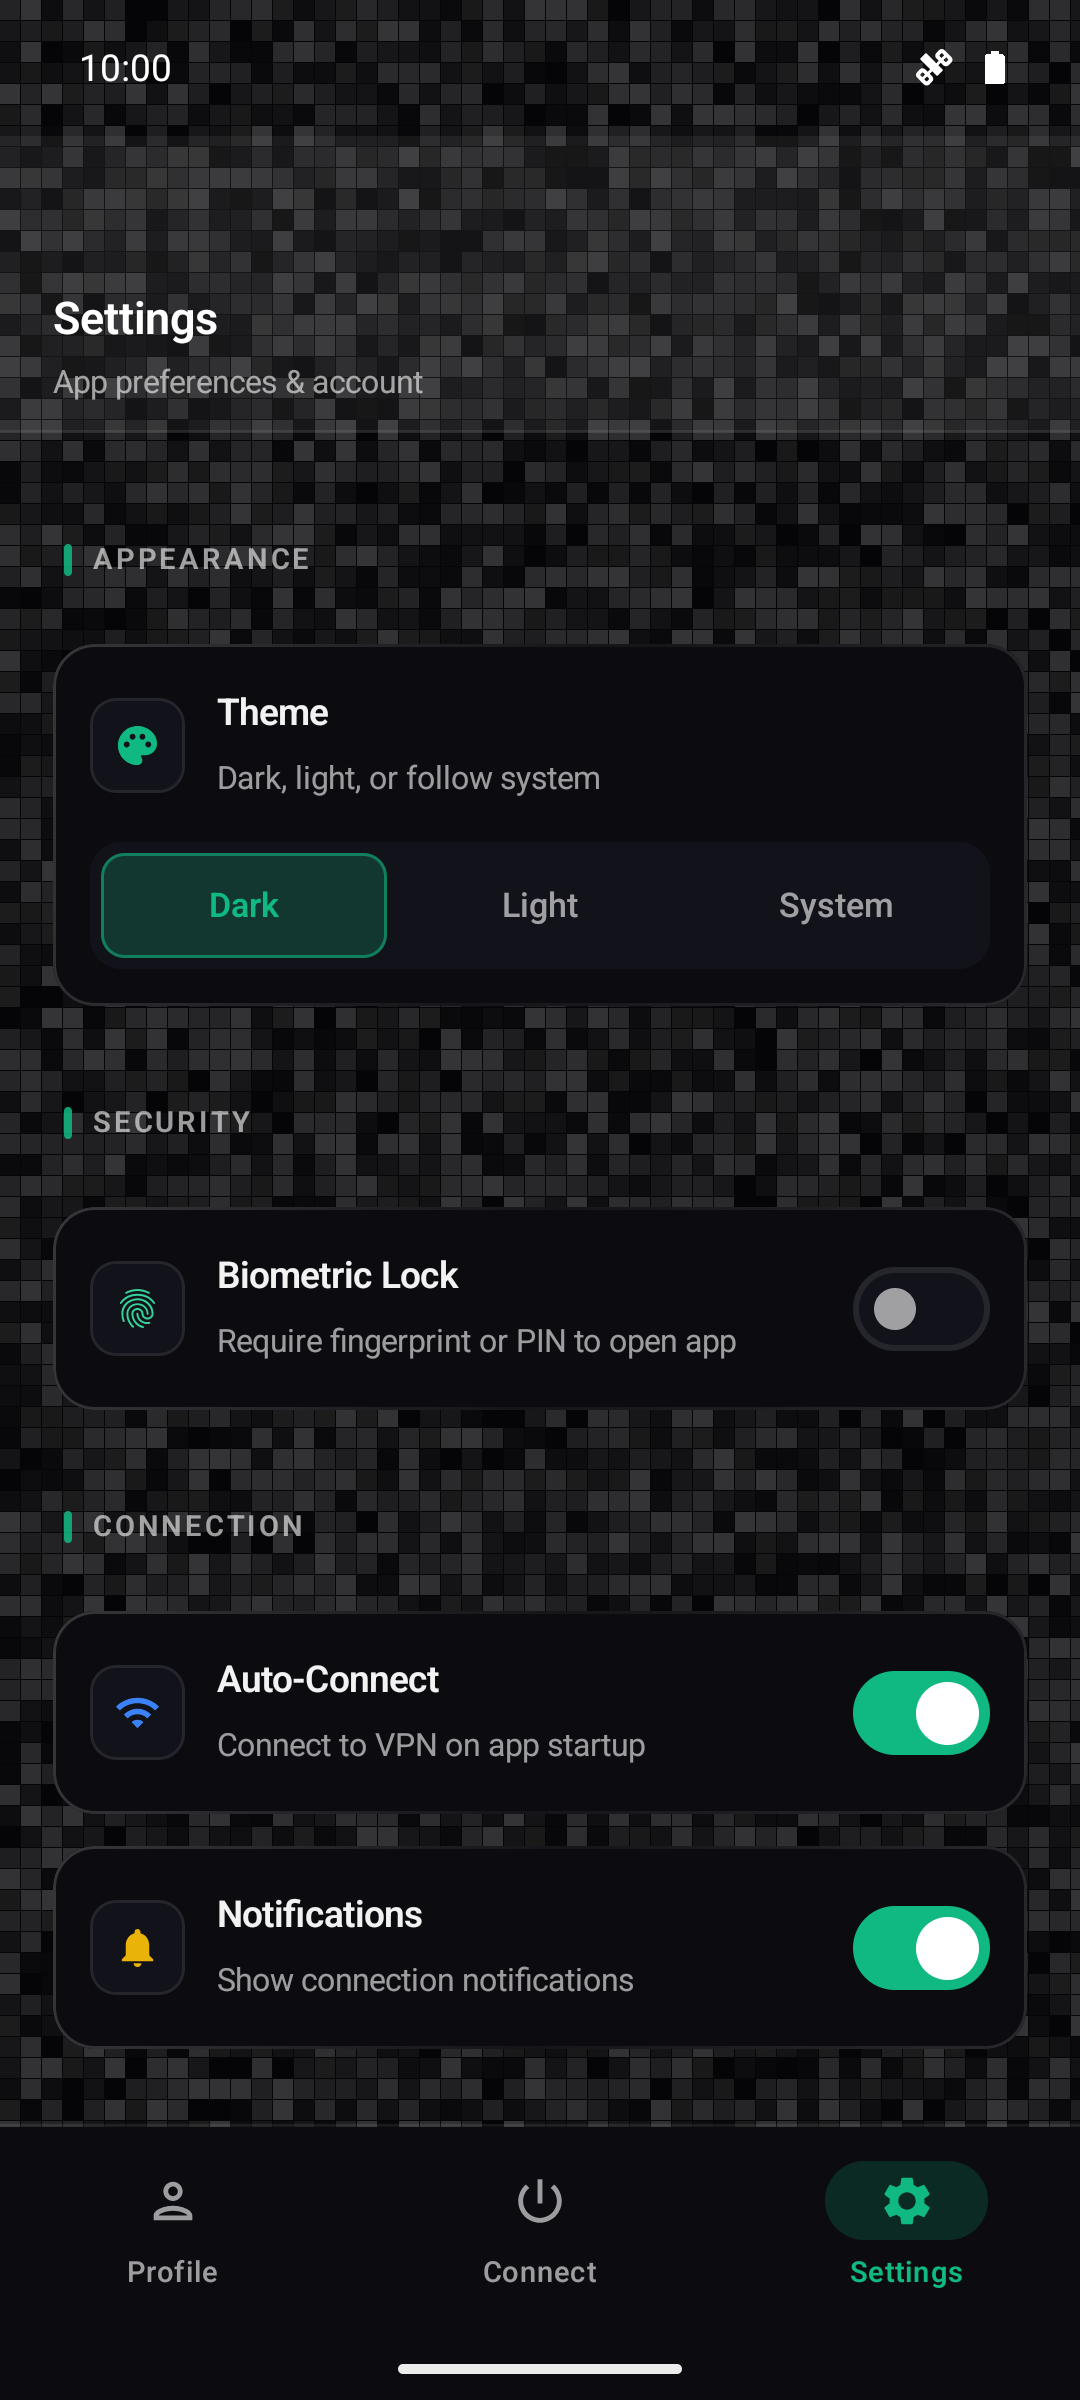
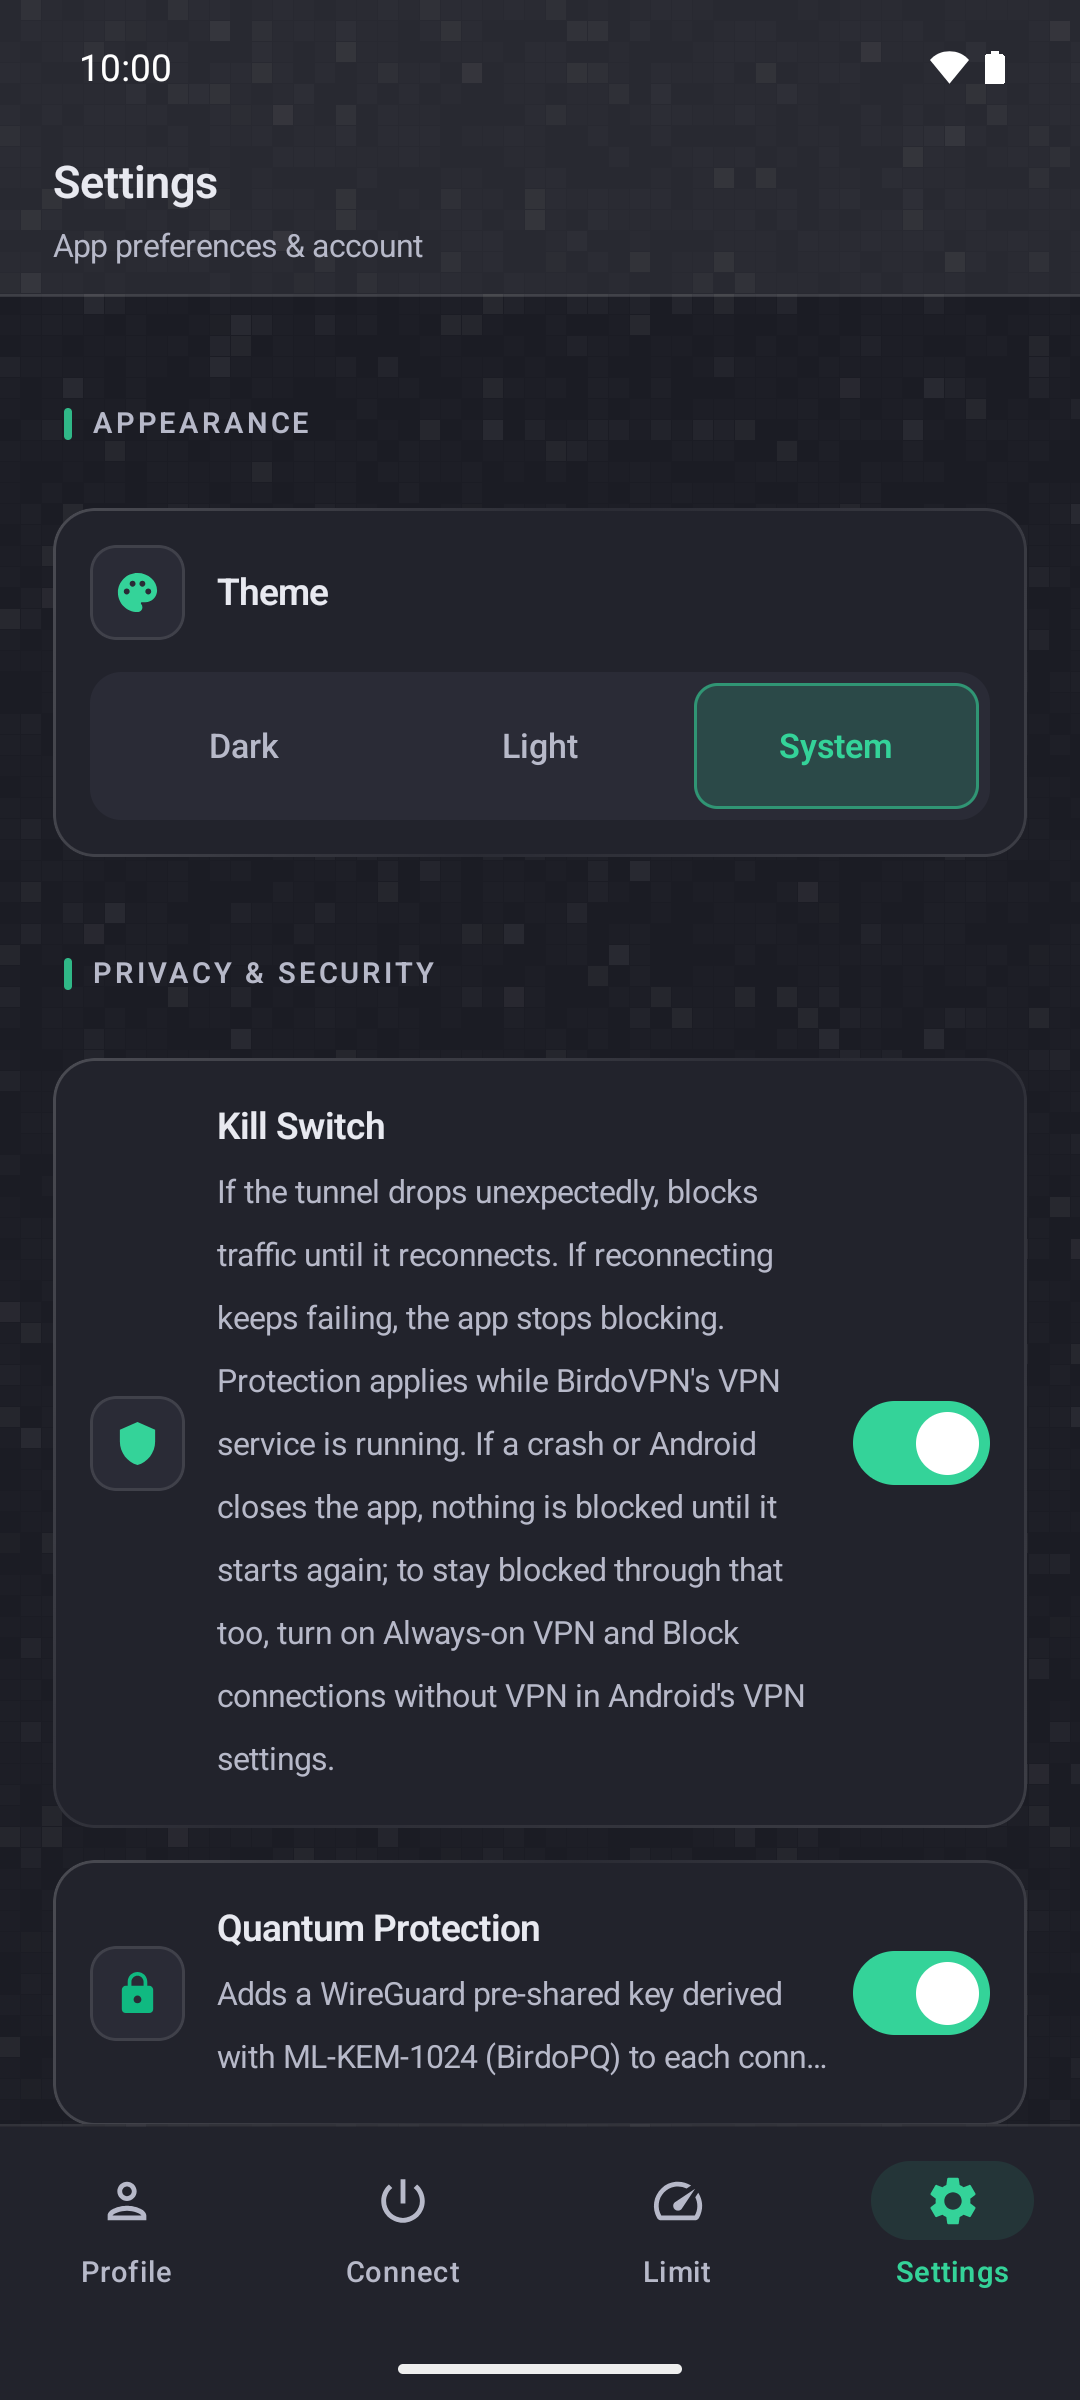
chore(store): regenerate Play/F-Droid screenshots from the current UI with a fresh test account; no account number on any image (MR-1181, MR-037) (#502)
The Play set (2026-09-20) and the F-Droid set (2026-07-13) predated the
current UI, and their top bars named an account: the Play home screen a
staff e-mail address, two F-Droid frames 12 digits of an anonymous account
number (treated as burned, MR-037).

Re-captured on the emulator (AVD Pixel_7_API_35, read-only session) from a
debug build of main with -PallowScreenshots=true, which talks to production
and draws no debug label. Same screens, order and pixel sizes as before:
Play 1440x3120 (wm size/density override), F-Droid 1080x2400. One fresh
anonymous free account was created in-app; its number was never captured
(the save dialog was dismissed blind, no Profile frame) and the account was
deleted in-app afterwards. The current top bar says "Anonymous account".

StoreScreenshotsTest pins both sets and their sizes and refuses the nine
retired frames by SHA-256, so a revert cannot publish them again.

diff --git a/app/src/test/java/app/birdo/vpn/StoreScreenshotsTest.kt b/app/src/test/java/app/birdo/vpn/StoreScreenshotsTest.kt
@@ -1,0 +1,102 @@
+package app.birdo.vpn
+
+import org.junit.Assert.assertEquals
+import org.junit.Assert.assertTrue
+import org.junit.Test
+import java.io.File
+import java.nio.ByteBuffer
+import java.security.MessageDigest
+
+/**
+ * MR-1181 / MR-037: the store screenshots. scripts/play_listing.py uploads
+ * store-assets/screenshot-0*.png to Google Play; F-Droid shows
+ * fdroid/metadata/app.birdo.vpn/en-US/phoneScreenshots/. The frames retired on
+ * 2026-10-21 showed an account identifier in the top bar: the Play home screen
+ * a staff e-mail address, two F-Droid frames 12 digits of an anonymous account
+ * number (that account is treated as burned). The current UI names neither.
+ *
+ * This pins the set store-assets/SCREENSHOTS-README.md documents, at the pixel
+ * sizes it is captured at, and refuses every retired frame by content digest,
+ * so a revert or a copy from a stale checkout cannot publish one again.
+ */
+class StoreScreenshotsTest {
+
+    private val repoRoot: File by lazy {
+        var dir = File("").absoluteFile
+        while (!File(dir, "settings.gradle.kts").isFile) {
+            dir = dir.parentFile
+                ?: error("settings.gradle.kts not found above ${File("").absolutePath}")
+        }
+        dir
+    }
+
+    private val playDir get() = File(repoRoot, "store-assets")
+    private val fdroidDir get() = File(repoRoot, "fdroid/metadata/app.birdo.vpn/en-US/phoneScreenshots")
+
+    /** SHA-256 of each retired frame: the Play set of 2026-09-20 and the F-Droid set of 2026-07-13. */
+    private val retired = mapOf(
[9 lines of base64/hex data omitted]
+    )
+
+    /** Width and height from the PNG's IHDR chunk, which the format puts first. */
+    private fun pngSize(file: File): Pair<Int, Int> {
+        val head = file.inputStream().use { it.readNBytes(24) }
+        val signature = byteArrayOf(0x89.toByte(), 'P'.code.toByte(), 'N'.code.toByte(), 'G'.code.toByte(), 0x0D, 0x0A, 0x1A, 0x0A)
+        assertTrue("${file.name} is not a PNG", head.size == 24 && head.copyOfRange(0, 8).contentEquals(signature))
+        assertEquals("${file.name}: first chunk", "IHDR", String(head, 12, 4, Charsets.US_ASCII))
+        val buf = ByteBuffer.wrap(head, 16, 8)
+        return buf.int to buf.int
+    }
+
+    private fun sha256(file: File): String =
+        MessageDigest.getInstance("SHA-256").digest(file.readBytes()).joinToString("") { "%02x".format(it) }
+
+    @Test
+    fun `the Play set is the four documented frames at 1440x3120`() {
+        val shots = playDir.listFiles { f -> f.name.matches(Regex("screenshot-0.*\\.png")) }!!
+            .map { it.name }.sorted()
+        assertEquals(
+            listOf(
+                "screenshot-01-login.png",
+                "screenshot-02-home-protected.png",
+                "screenshot-03-servers.png",
+                "screenshot-04-security.png",
+            ),
+            shots,
+        )
+        for (name in shots) {
+            val file = File(playDir, name)
+            assertEquals("$name size", 1440 to 3120, pngSize(file))
+            // play_listing.py refuses anything over Play's 8 MiB limit.
+            assertTrue("$name is over 8 MiB", file.length() <= 8L * 1024 * 1024)
+        }
+    }
+
+    @Test
+    fun `the F-Droid set is five frames at 1080x2400`() {
+        val shots = fdroidDir.listFiles { f -> f.extension == "png" }!!.map { it.name }.sorted()
+        assertEquals(listOf("01.png", "02.png", "03.png", "04.png", "05.png"), shots)
+        for (name in shots) {
+            assertEquals("$name size", 1080 to 2400, pngSize(File(fdroidDir, name)))
+        }
+    }
+
+    @Test
+    fun `no retired frame is published again`() {
+        val published = listOf(File(repoRoot, "store-assets"), File(repoRoot, "fdroid"))
+            .flatMap { root -> root.walkTopDown().filter { it.isFile && it.extension == "png" }.toList() }
+        assertTrue("no store images found", published.size >= 9)
+        val back = published.mapNotNull { file ->
+            retired[sha256(file)]?.let { "${file.relativeTo(repoRoot).invariantSeparatorsPath} is the retired $it" }
+        }
+        assertTrue(back.joinToString("\n"), back.isEmpty())
+    }
+}

diff --git a/store-assets/SCREENSHOTS-README.md b/store-assets/SCREENSHOTS-README.md
@@ -1,7 +1,27 @@
 # Store screenshots
 
-**Re-captured 2026-09-20** on a Samsung SM-S938B (Android 16), 1440x3120, from a
-debug build with `-PallowScreenshots=true`.
+**Re-captured 2026-10-21** (MR-1181, MR-037), both sets, on the Android emulator
+(AVD `Pixel_7_API_35`, API 35) from a debug build of `main` with
+`-PallowScreenshots=true`. A debug build talks to production (`API_BASE_URL` is
+set in `defaultConfig`) and draws no debug label or HUD. The Play set is
+1440x3120 (`adb shell wm size 1440x3120` + `wm density 560`: the same dp layout
+as the device the 2026-09-20 set came from); the F-Droid set is the AVD's native
+1080x2400. System UI demo mode fixed the status bar (10:00, full battery, Wi-Fi,
+no notifications). `StoreScreenshotsTest` pins both sets and their sizes.
+
+Account: ONE fresh anonymous free account, created in-app for this capture.
+The "Save your account number" dialog was dismissed without a screenshot or a
+host-side UI dump (the button was found by a dump grepped and deleted on the
+device), no frame is taken from Profile (it shows the number's last group), and
+the account was deleted in-app (Profile → Delete Account) straight afterwards.
+The emulator ran with `-read-only`, so its install and sign-in were discarded
+on exit. The current UI never names the account elsewhere: the top bar says
+"Anonymous account".
+
+The frames this replaced showed an account identifier in the top bar (the Play
+home screen a staff e-mail address, two F-Droid frames 12 digits of an anonymous
+account number, treated as burned under MR-037). `StoreScreenshotsTest` refuses
+them by SHA-256, so they cannot be published again.
 
 ## Why this could not be done before
 
@@ -30,17 +50,26 @@ screen to photograph. Copy it from the main checkout first.
 
 ## The set
 
-Four, not five. `play_listing.py` accepts 2–8, and four verified images beat
-five where one is unchecked. `screenshot-05-split-tunneling` is gone: split
-tunnelling is not reachable from Settings in the current build, and the security
-panel below is a stronger asset anyway.
+Play: four. `play_listing.py` accepts 2–8. `screenshot-05-split-tunneling` was
+dropped on 2026-09-20 and stays out of the Play set; the F-Droid set keeps its
+split-tunnelling frame (Settings → Split Tunneling → Manage Apps).
 
 | File | Shows |
 |---|---|
 | `screenshot-01-login.png` | Email / Anonymous / SSO tabs |
-| `screenshot-02-home-protected.png` | Connected, the arc drawn to the node, live transfer counters |
+| `screenshot-02-home-protected.png` | Protected, the arc drawn to São Paulo, live timer and transfer counters |
 | `screenshot-03-servers.png` | "10 of 10 servers", search, All / Favorites / High-Speed / Port Forwarding |
-| `screenshot-04-security.png` | Quantum Protection and Kill Switch both on |
+| `screenshot-04-security.png` | Settings: Appearance, then Kill Switch and Quantum Protection both on |
+
+F-Droid (`fdroid/metadata/app.birdo.vpn/en-US/phoneScreenshots/`), 1080x2400:
+
+| File | Shows |
+|---|---|
+| `01.png` | Email / Anonymous / SSO tabs |
+| `02.png` | Protected, the arc drawn to São Paulo |
+| `03.png` | The server picker, "10 of 10 servers" |
+| `04.png` | Settings: Appearance, Kill Switch and Quantum Protection on |
+| `05.png` | Split Tunneling: the app list |
 
 ---
 
